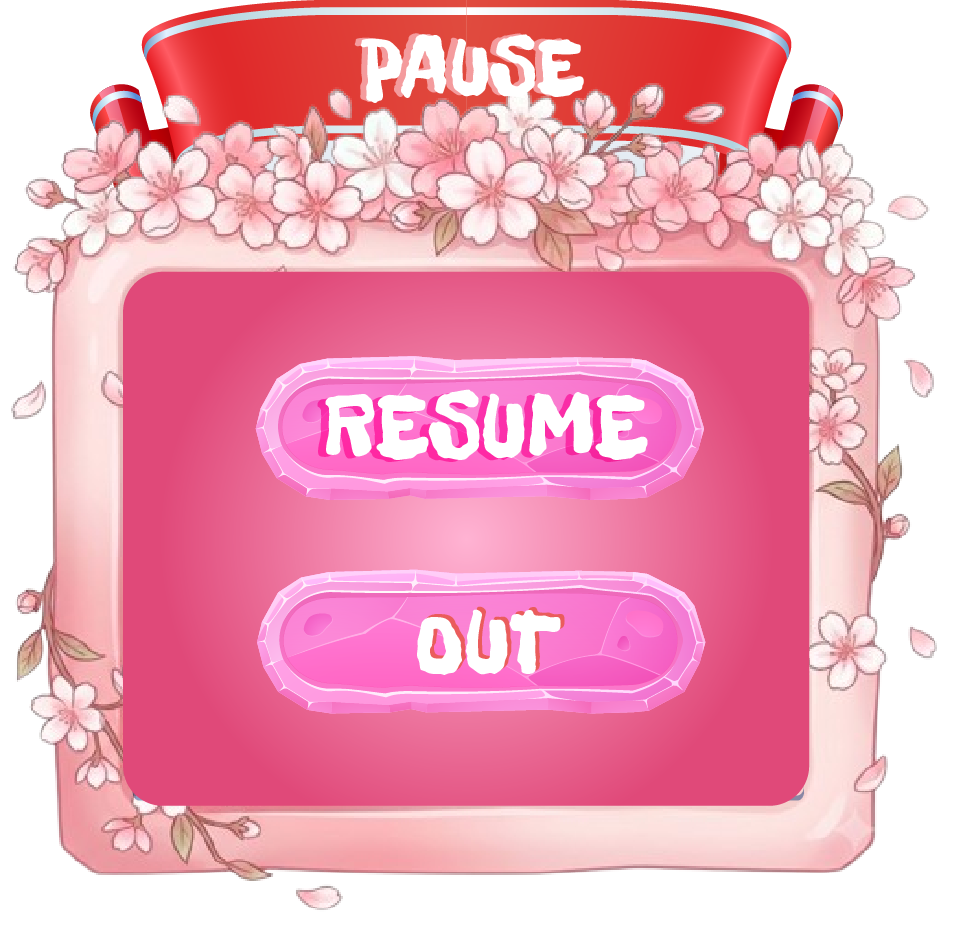
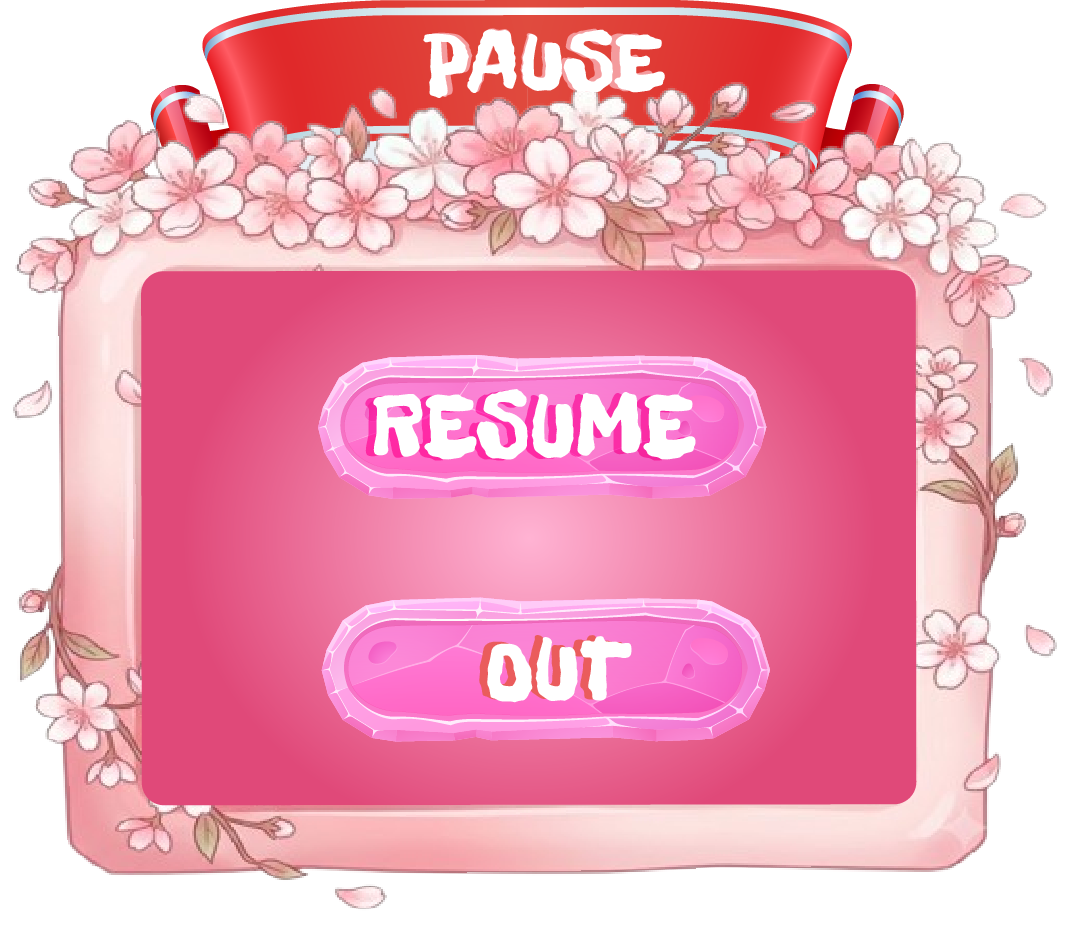
Complete Graphic menu

diff --git a/game_crossing/src/UIManager.cpp b/game_crossing/src/UIManager.cpp
@@ -86,6 +86,9 @@ const sf::FloatRect UIManager::kMusicTrackBounds    ({1383.f, 690.f}, {400.f, 20
 const sf::FloatRect UIManager::kMusicDecBounds      ({1313.f, 675.f}, {50.f, 50.f});
 const sf::FloatRect UIManager::kMusicIncBounds      ({1803.f, 675.f}, {50.f, 50.f});
 const sf::FloatRect UIManager::kSettingOkBounds     ({1504.f, 816.f}, {148.f, 102.f});
+const sf::FloatRect UIManager::kGraphicOkThemeBounds ({1520.f, 801.f}, {155.f, 120.f});
+const sf::FloatRect UIManager::kGraphicCharacterOkBounds ({288.f, 814.f}, {155.f, 120.f});
+
 
 //Constructor
 UIManager::UIManager(sf::RenderWindow& window)
@@ -205,11 +208,62 @@ bool UIManager::setTheme(const std::string& seasonName)
         std::cerr << "[UIManager] optional Pause.png is missing for theme '"
                   << seasonName << "'; using the normal seasonal background.\n";
     currentTheme_ = seasonName;
+    currentThemeIndex_ = static_cast<int>(std::distance(kThemeNames.begin(),
+        std::find(kThemeNames.begin(), kThemeNames.end(), currentTheme_)));
     if (!mapBackground_.loadTheme(currentTheme_))
         std::cerr << "[UIManager] no gameplay maps found for theme '" << currentTheme_ << "'\n";
     endlessMap_.setAvailableMapLevels(mapBackground_.availableLevelNumbers());
     assetsLoaded_ = true;
     return true;
+}
+
+bool UIManager::loadGraphicPreviewThemeIcon()
+{
+    const std::string& season = kThemeNames.at(previewThemeIndex_);
+    std::string legacyFolder = season;
+    legacyFolder[0] = static_cast<char>(std::toupper(static_cast<unsigned char>(legacyFolder[0])));
+
+    sf::Texture loaded;
+    for (const std::string& folder : { season, legacyFolder }) {
+        if (loaded.loadFromFile("assets/theme/" + folder + "/IconTheme.png")) {
+            iconThemeTex_ = std::move(loaded);
+            return true;
+        }
+    }
+    std::cerr << "[UIManager] missing IconTheme.png for preview theme '" << season << "'\n";
+    return false;
+}
+
+void UIManager::beginGraphicPreview()
+{
+    previewThemeIndex_ = currentThemeIndex_;
+    previewCharacterId_ = CharacterRenderer::normalizeID(cfg_.cosmetic.characterId);
+    loadGraphicPreviewThemeIcon();
+}
+
+bool UIManager::commitGraphicPreview()
+{
+    const bool themeApplied = commitPreviewTheme();
+    commitPreviewCharacter();
+    return themeApplied;
+}
+
+bool UIManager::commitPreviewTheme()
+{
+    // setTheme is transactional: if any required seasonal UI asset fails,
+    // preserve both the active theme and the persisted cosmetic selection.
+    if (!setTheme(kThemeNames.at(previewThemeIndex_)))
+        return false;
+
+    sets_.save(cfg_);
+    return true;
+}
+
+void UIManager::commitPreviewCharacter()
+{
+    cfg_.cosmetic.characterId = previewCharacterId_;
+    ctx_.selectedCharacterID = previewCharacterId_;
+    sets_.save(cfg_);
 }
 
 // ---------------------------------------------------------------------
@@ -263,6 +317,8 @@ void UIManager::handleEvents()
 
             if (key->code == sf::Keyboard::Key::F7)
             {
+                if (state_ == UIState::Graphic)
+                    commitGraphicPreview(); // Debug shortcut also confirms the current preview.
                 debugUi_ = !debugUi_;
                 std::cout << "[UI Debug] " << (debugUi_ ? "enabled" : "disabled") << '\n';
                 continue;
@@ -533,15 +589,13 @@ void UIManager::handleGraphic(const sf::Event& e)
         if (k->code == sf::Keyboard::Key::Left)
         {
             audio_.playUiClick();
-            cfg_.cosmetic.characterId = CharacterRenderer::normalizeID(cfg_.cosmetic.characterId - 1);
-            ctx_.selectedCharacterID = cfg_.cosmetic.characterId;
+            previewCharacterId_ = CharacterRenderer::normalizeID(previewCharacterId_ - 1);
             return;
         }
         if (k->code == sf::Keyboard::Key::Right)
         {
             audio_.playUiClick();
-            cfg_.cosmetic.characterId = CharacterRenderer::normalizeID(cfg_.cosmetic.characterId + 1);
-            ctx_.selectedCharacterID = cfg_.cosmetic.characterId;
+            previewCharacterId_ = CharacterRenderer::normalizeID(previewCharacterId_ + 1);
             return;
         }
     }
@@ -550,10 +604,12 @@ void UIManager::handleGraphic(const sf::Event& e)
         if (mm->button == sf::Mouse::Button::Left)
         {
             const sf::Vector2f p(mm->position.x, mm->position.y);
-            if (scaledBaseRect(kCharacterPrevBounds).contains(p)) { audio_.playUiClick(); cfg_.cosmetic.characterId = CharacterRenderer::normalizeID(cfg_.cosmetic.characterId - 1); ctx_.selectedCharacterID = cfg_.cosmetic.characterId; return; }
-            if (scaledBaseRect(kCharacterNextBounds).contains(p)) { audio_.playUiClick(); cfg_.cosmetic.characterId = CharacterRenderer::normalizeID(cfg_.cosmetic.characterId + 1); ctx_.selectedCharacterID = cfg_.cosmetic.characterId; return; }
-            if (scaledBaseRect(kThemePrevBounds).contains(p)) { audio_.playUiClick(); currentThemeIndex_ = (currentThemeIndex_ + 3) % 4; setTheme(kThemeNames[currentThemeIndex_]); return; }
-            if (scaledBaseRect(kThemeNextBounds).contains(p)) { audio_.playUiClick(); currentThemeIndex_ = (currentThemeIndex_ + 1) % 4; setTheme(kThemeNames[currentThemeIndex_]); return; }
+            if (scaledBaseRect(kCharacterPrevBounds).contains(p)) { audio_.playUiClick(); previewCharacterId_ = CharacterRenderer::normalizeID(previewCharacterId_ - 1); return; }
+            if (scaledBaseRect(kCharacterNextBounds).contains(p)) { audio_.playUiClick(); previewCharacterId_ = CharacterRenderer::normalizeID(previewCharacterId_ + 1); return; }
+            if (scaledBaseRect(kThemePrevBounds).contains(p)) { audio_.playUiClick(); previewThemeIndex_ = (previewThemeIndex_ + 3) % 4; loadGraphicPreviewThemeIcon(); return; }
+            if (scaledBaseRect(kThemeNextBounds).contains(p)) { audio_.playUiClick(); previewThemeIndex_ = (previewThemeIndex_ + 1) % 4; loadGraphicPreviewThemeIcon(); return; }
+            if (scaledBaseRect(kGraphicCharacterOkBounds).contains(p)) { audio_.playUiClick(); commitPreviewCharacter(); return; }
+            if (scaledBaseRect(kGraphicOkThemeBounds).contains(p)) { audio_.playUiClick(); commitPreviewTheme(); return; }
         }
     }
 }
@@ -1268,6 +1324,8 @@ void UIManager::setState(UIState s)
         capturePausedFrame();
 
     state_ = s;
+    if (s == UIState::Graphic && previousState != UIState::Graphic)
+        beginGraphicPreview();
     if (enteringClassic || enteringEndless)
         resetGameplay();
     if (s == UIState::Pause || previousState == UIState::Pause)
@@ -1575,20 +1633,7 @@ void UIManager::rebuildButtons()
     }
 
     case UIState::Graphic:
-    {
-        auto y = vstack(240, 3);
-        add(y(0), { BTN_W, BTN_H }, "Character  ( < / > )", Button::Style::Subtle, [this] {
-            cfg_.cosmetic.characterId = CharacterRenderer::normalizeID(cfg_.cosmetic.characterId + 1);
-            ctx_.selectedCharacterID = cfg_.cosmetic.characterId;
-            sets_.save(cfg_);
-            });
-        add(y(1), { BTN_W, BTN_H }, "Background  ( < / > )", Button::Style::Subtle, [this] {
-            cfg_.cosmetic.backgroundId = std::min(7, cfg_.cosmetic.backgroundId + 1);
-            sets_.save(cfg_);
-            });
-        add(y(2), { BTN_W, BTN_H }, "Back", Button::Style::Subtle, [this] { handleBack(); });
         break;
-    }
 
     case UIState::LoadGame:
     {
@@ -1853,6 +1898,8 @@ void UIManager::drawActiveDebugHitboxes()
     if (state_ == UIState::Graphic) {
         box(kCharacterPanelBounds); box(kCharacterPrevBounds); box(kCharacterNextBounds);
         box(kThemePanelBounds); box(kThemePrevBounds); box(kThemeNextBounds);
+        box(kGraphicCharacterOkBounds);
+        box(kGraphicOkThemeBounds);
     } else if (state_ == UIState::Setting) {
         box(kSfxTrackBounds); box(kSfxDecBounds); box(kSfxIncBounds);
         box(kMusicTrackBounds); box(kMusicDecBounds); box(kMusicIncBounds); box(kSettingOkBounds);
@@ -2112,11 +2159,28 @@ void UIManager::renderSetting()
 void UIManager::renderGraphic()
 {
     win_.setView(win_.getDefaultView());
-    const sf::FloatRect left = scaledBaseRect(kCharacterPanelBounds), right = scaledBaseRect(kThemePanelBounds);
-    sf::Text a(font_, "CHARACTER: " + CharacterRenderer::name(ctx_.selectedCharacterID), 28); a.setFillColor(sf::Color::White); a.setPosition({left.position.x+35.f,left.position.y+35.f}); win_.draw(a);
-    sf::Text b(font_, "THEME: " + kThemeNames[currentThemeIndex_], 28); b.setFillColor(sf::Color::White); b.setPosition({right.position.x+35.f,right.position.y+35.f}); win_.draw(b);
-    // The four navigation hitboxes remain active in handleGraphic(), but the
-    // old '<' and '>' glyphs are intentionally no longer rendered.
+    const sf::FloatRect characterPanel = scaledBaseRect(kCharacterPanelBounds);
+    const sf::FloatRect themePanel = scaledBaseRect(kThemePanelBounds);
+
+    // Character sprites are not available yet, so preserve the existing
+    // geometry-only placeholder and center it in the panel.
+    CharacterRenderer::draw(win_, previewCharacterId_,
+                            { characterPanel.position.x + characterPanel.size.x * .5f,
+                              characterPanel.position.y + characterPanel.size.y * .5f },
+                            std::min(characterPanel.size.x, characterPanel.size.y) * .22f);
+
+    // IconTheme is loaded only when the preview season changes, never here.
+    if (iconThemeTex_.getSize().x != 0 && iconThemeTex_.getSize().y != 0) {
+        sf::Sprite icon(iconThemeTex_);
+        const sf::Vector2u iconSize = iconThemeTex_.getSize();
+        const float fit = std::min(themePanel.size.x / static_cast<float>(iconSize.x),
+                                   themePanel.size.y / static_cast<float>(iconSize.y));
+        icon.setOrigin({ iconSize.x * .5f, iconSize.y * .5f });
+        icon.setScale({ fit, fit });
+        icon.setPosition({ themePanel.position.x + themePanel.size.x * .5f,
+                           themePanel.position.y + themePanel.size.y * .5f });
+        win_.draw(icon);
+    }
     win_.setView(uiView_);
 }
 

diff --git a/game_crossing/include/UIManager.h b/game_crossing/include/UIManager.h
@@ -125,6 +125,11 @@ private:
     void setMusicVolumeFromMouse(sf::Vector2i pixel);
     void applyAudioVolumes();
     void savePausedRunAndExit();
+    bool loadGraphicPreviewThemeIcon();
+    void beginGraphicPreview();
+    bool commitGraphicPreview();
+    bool commitPreviewTheme();
+    void commitPreviewCharacter();
     void capturePausedFrame();
     sf::FloatRect pauseOverlayBounds() const;
     sf::FloatRect pauseResumeBounds() const;
@@ -137,7 +142,7 @@ private:
     sf::Font   font_;
     sf::Text   debugText_;
     bool       fontLoaded_ = false;
-    sf::Texture bgTex_, settingBgTex_, graphicBgTex_, pauseTex_, backButtonTex_,
+    sf::Texture bgTex_, settingBgTex_, graphicBgTex_, iconThemeTex_, pauseTex_, backButtonTex_,
                 settingButtonTex_, logoTex_, iconsTex_;
     sf::Texture pauseFrameTex_;
     MapBackground mapBackground_;
@@ -149,6 +154,8 @@ private:
     bool       debugAudioMixer_ = false;
     std::size_t selectedAudioCategory_ = 0;
     int        currentThemeIndex_ = 0;
+    int        previewThemeIndex_ = 0;
+    int        previewCharacterId_ = 1;
     bool       draggingSfx_ = false;
     bool       draggingMusic_ = false;
 
@@ -161,6 +168,8 @@ private:
     static const sf::FloatRect kThemePanelBounds, kThemePrevBounds, kThemeNextBounds;
     static const sf::FloatRect kSfxTrackBounds, kSfxDecBounds, kSfxIncBounds;
     static const sf::FloatRect kMusicTrackBounds, kMusicDecBounds, kMusicIncBounds, kSettingOkBounds;
+    static const sf::FloatRect kGraphicOkThemeBounds;
+    static const sf::FloatRect kGraphicCharacterOkBounds;
 
     UIState        state_                = UIState::Boot;
     UIState        stateBeforeModal_     = UIState::MainMenu;
